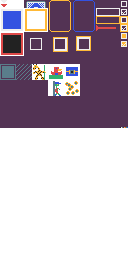
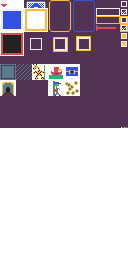
first pass at adding a victory door

Changed region(s): [[0.0, 0.3125, 0.125, 0.375]]

diff --git a/libs/game/src/game.rs b/libs/game/src/game.rs
@@ -127,7 +127,15 @@ use platform_types::{unscaled, arrow_timer::{ArrowTimer}};
 //                * A portal?
 //            * Mark it as instant_victory in the config file
 //            * Have it actually trigger a victory screen
+//                * Worth adding a walking through the door animation? Like 3 frames or whatever?
 //            * Is it a good time to add an in-game display of the goal?
+//            * Add a locked door/portal sprite
+//            * Add a key sprite
+//            * Have the portal start locked
+//            * Ensure the key spawns
+//            * Make collecting the key open the corresponding door
+//                * Allow it to work for multiple doors in the future
+//            * Once it has been shown to work for one door, actually make multiple doors
 
 // A note about eventual design:
 // This bit about Mewgenics having one massive Character class makes me want to support that kind of thing:
@@ -196,6 +204,7 @@ pub mod config {
         PLAYER_START = 1 << 2,
         ITEM_START = 1 << 3,
         NPC_START = 1 << 4,
+        DOOR_START = 1 << 5,
     }
 
     /// A configuration WorldSegment that can be used to contruct game::WorldSegments later.
@@ -219,7 +228,9 @@ pub mod config {
 
     consts_def!{
         ALL_ENTITY_FLAGS: EntityDefFlags;
-        COLLECTABLE = 1,
+        COLLECTABLE = 1 << 0,
+        STEPPABLE = 1 << 1,
+        VICTORY = 1 << 2,
     }
 
     pub type EntityDefIdRefKind = u8;
@@ -270,7 +281,7 @@ pub mod config {
         }
     }
 }
-pub use config::{Config, EntityDef, EntityDefFlags, TileFlags, COLLECTABLE};
+pub use config::{Config, EntityDef, EntityDefFlags, TileFlags, COLLECTABLE, STEPPABLE, VICTORY};
 
 pub fn to_entity(def: &EntityDef, x: X, y: Y) -> Entity {
     Entity::new(
@@ -603,8 +614,10 @@ impl State {
 #[derive(Debug)]
 pub enum Error {
     CannotPlacePlayer,
+    CannotPlaceDoor,
     NoMobsFound,
     NoItemsFound,
+    NoDoorsFound,
     CouldNotSatisfyDesire(config::Desire),
     InvalidDesireID(EntityDef, SegmentId),
     NonItemWasDesired(EntityDef, EntityDef, SegmentId),
@@ -614,7 +627,7 @@ pub enum Error {
 
 impl State {
     pub fn new(seed: Seed, config: Config) -> Result<State, Error> {
-        use config::{FLOOR, PLAYER_START, NPC_START, ITEM_START};
+        use config::{FLOOR, DOOR_START, PLAYER_START, NPC_START, ITEM_START};
 
         let mut next_free_segment_id = 0;
 
@@ -670,8 +683,12 @@ impl State {
         world.player.x = p_xy.x;
         world.player.y = p_xy.y;
 
+        let mut placed_already = Vec::with_capacity(16);
+        placed_already.push(p_xy);
+
         let mut mob_defs = Vec::with_capacity(16);
         let mut item_defs = Vec::with_capacity(16);
+        let mut door_defs = Vec::with_capacity(16);
         let mut speeches_lists = Vec::with_capacity(16);
         let mut inventory_descriptions_lists = Vec::with_capacity(16);
 
@@ -703,6 +720,8 @@ impl State {
 
             if def.flags & COLLECTABLE == COLLECTABLE {
                 item_defs.push(def.clone());
+            } else if def.flags & STEPPABLE == STEPPABLE {
+                door_defs.push(def.clone());
             } else {
                 mob_defs.push(def.clone());
 
@@ -732,8 +751,29 @@ impl State {
             return Err(Error::NoItemsFound);
         }
 
+        if door_defs.is_empty() {
+            return Err(Error::NoDoorsFound);
+        }
+
         xs::shuffle(&mut rng, &mut mob_defs);
         xs::shuffle(&mut rng, &mut item_defs);
+        xs::shuffle(&mut rng, &mut door_defs);
+
+        for door_def in &door_defs {
+            let d_xy = random::tile_matching_flags_besides(
+                &mut rng,
+                &config_segment,
+                FLOOR | DOOR_START,
+                &placed_already,
+            ).ok_or(Error::CannotPlaceDoor)?;
+    
+            world.mobs.insert(
+                first_segment.id,
+                to_entity(door_def, d_xy.x, d_xy.y),
+            );
+
+            placed_already.push(d_xy);
+        }
 
         struct Constraints<'desires> {
             desires: Vec<config::DesireRef<'desires>>,
@@ -770,9 +810,6 @@ impl State {
         }
 
         let constraints: Constraints = select_constraints(&mut rng, &all_desires);
-
-        let mut placed_already = Vec::with_capacity(16);
-        placed_already.push(p_xy);
 
         for desire in constraints.desires {
             let mut attempts = 0;

diff --git a/libs/config/src/config.rs b/libs/config/src/config.rs
@@ -155,6 +155,9 @@ static ENGINE: LazyLock<Engine> = LazyLock::new(|| {
         fn item(n) {{
             tile_sprite_n_at_offset(n, 4)
         }}
+        // TODO: Define walls, floor, and player here too
+
+        export const OPEN_DOOR = tile_sprite_n_at_offset(1, 0);
     "#);
 
     add_module!(default_spritesheet = default_spritesheet_string);
